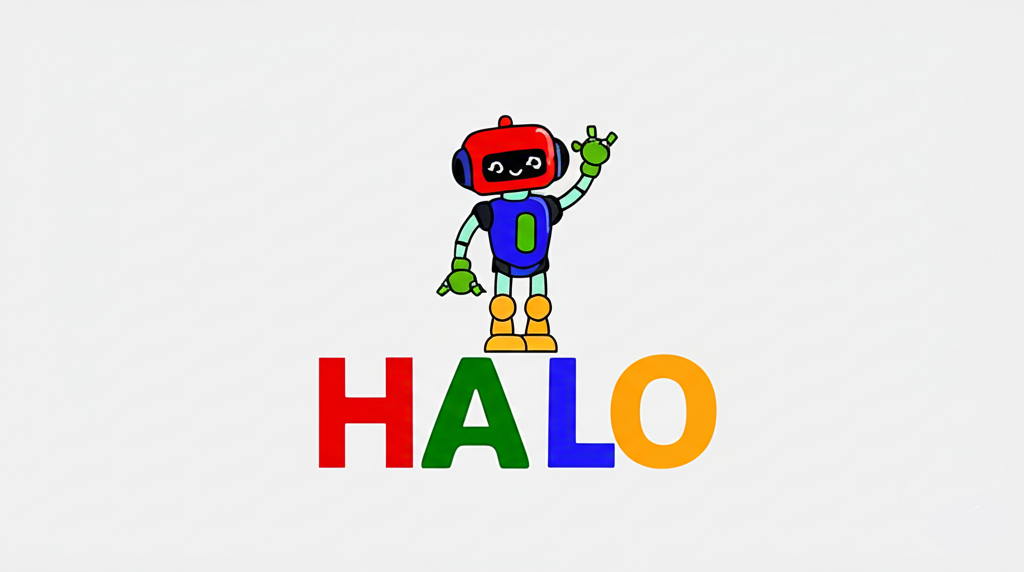
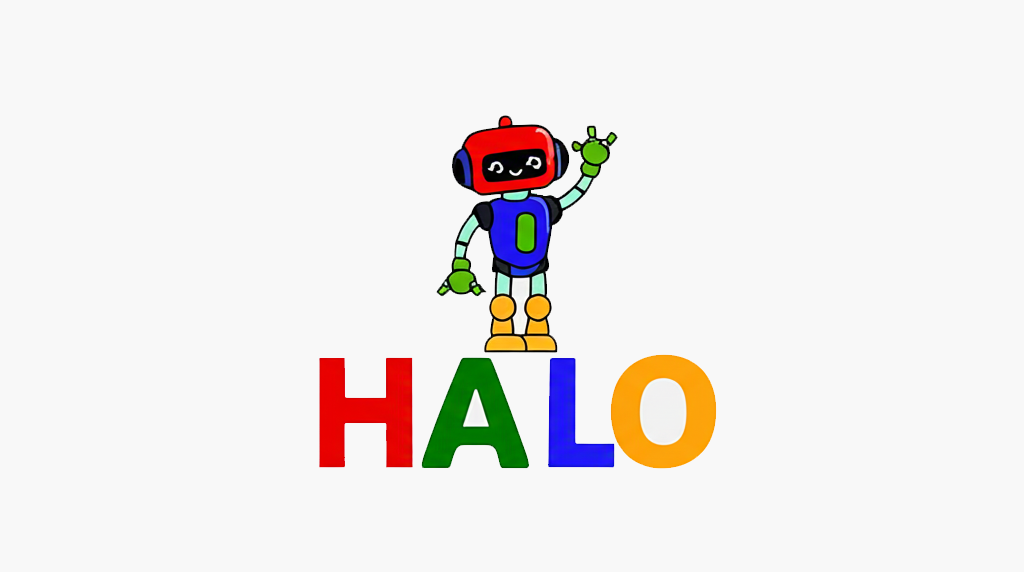
add background

diff --git a/index.html b/index.html
@@ -83,85 +83,74 @@
 </nav>
 
 
-<section class="hero">
-  <div class="hero-body">
-    <div class="container is-max-desktop">
-      <div class="columns is-centered">
-        <div class="column has-text-centered">
-          <h1 class="title is-1 publication-title">Long Horizon Latent Action Learning framework for general robot manipulation</h1>
-          <div class="is-size-5 publication-authors">
-            <span class="author-block">
-              <a href="https://keunhong.com">Author1</a><sup>1</sup>,</span>
-            <span class="author-block">
-              <a href="https://utkarshsinha.com">Author2</a><sup>2</sup>,</span>
-            <span class="author-block">
-              <a href="https://jonbarron.info">Author3</a><sup>2</sup>,
-            </span>
-          </div>
-
-          <div class="is-size-5 publication-authors">
-            <span class="author-block"><sup>1</sup>Institution1</span>
-            <span class="author-block"><sup>2</sup>Institution2</span>
-          </div>
-
+<div class="publication-header">
+  <section class="hero">
+    <div class="hero-body">
+      <div class="container is-max-desktop">
+        <div class="columns is-centered">
           <div class="column has-text-centered">
-            <div class="publication-links">
-              <!-- PDF Link. -->
-              <span class="link-block">
-                <a href="halo.pdf"
-                   class="external-link button is-normal is-rounded is-dark">
-                  <span class="icon">
-                      <i class="fas fa-file-pdf"></i>
-                  </span>
-                  <span>Paper</span>
-                </a>
-              </span>
-              <span class="link-block">
-                <a href="..."
-                   class="external-link button is-normal is-rounded is-dark">
-                  <span class="icon">
-                      <i class="ai ai-arxiv"></i>
-                  </span>
-                  <span>arXiv</span>
-                </a>
-              </span>
-              <!-- Video Link. -->
-              <!-- <span class="link-block">
-                <a href="https://www.youtube.com/watch?v=MrKrnHhk8IA"
-                   class="external-link button is-normal is-rounded is-dark">
-                  <span class="icon">
-                      <i class="fab fa-youtube"></i>
-                  </span>
-                  <span>Video</span>
-                </a>
-              </span> -->
-              <!-- Code Link. -->
-              <span class="link-block">
-                <a href="https://github.com/NsurrenderX/gcr_lerobot_2"
-                   class="external-link button is-normal is-rounded is-dark">
-                  <span class="icon">
-                      <i class="fab fa-github"></i>
-                  </span>
-                  <span>Code</span>
-                  </a>
-              </span>
-              <!-- Dataset Link. -->
-              <!-- <span class="link-block">
-                <a href="https://github.com/google/nerfies/releases/tag/0.1"
-                   class="external-link button is-normal is-rounded is-dark">
-                  <span class="icon">
-                      <i class="far fa-images"></i>
-                  </span>
-                  <span>Data</span>
-                  </a>
-            </div> -->
 
+            <!-- Main HALO logo image added here -->
+            <img src="static/images/halo_betterbak.png" alt="HALO Robot Logo" class="main-halo-logo">
+            
+            <!-- Title modified to include colored spans -->
+            <h1 class="title is-1 publication-title">
+              Long <span class="h-color">H</span>orizon Latent <span class="a-color">A</span>ction <span class="l-color">L</span>earning framework for general r<span class="o-color">o</span>bot manipulation
+            </h1>
+
+            <div class="is-size-5 publication-authors">
+              <span class="author-block">
+                <a href="https://keunhong.com">Author1</a><sup>1</sup>,</span>
+              <span class="author-block">
+                <a href="https://utkarshsinha.com">Author2</a><sup>2</sup>,</span>
+              <span class="author-block">
+                <a href="https://jonbarron.info">Author3</a><sup>2</sup>
+              </span>
+            </div>
+
+            <div class="is-size-5 publication-authors">
+              <span class="author-block"><sup>1</sup>Institution1</span>
+              <span class="author-block"><sup>2</sup>Institution2</span>
+            </div>
+
+            <div class="column has-text-centered">
+              <div class="publication-links">
+                <!-- PDF Link. -->
+                <span class="link-block">
+                  <a href="halo.pdf"
+                     class="external-link button is-normal is-rounded is-dark">
+                    <span class="icon">
+                        <i class="fas fa-file-pdf"></i>
+                    </span>
+                    <span>Paper</span>
+                  </a>
+                </span>
+                <span class="link-block">
+                  <a href="#"
+                     class="external-link button is-normal is-rounded is-dark">
+                    <span class="icon">
+                        <i class="ai ai-arxiv"></i>
+                    </span>
+                    <span>arXiv</span>
+                  </a>
+                </span>
+                <span class="link-block">
+                  <a href="https://github.com/NsurrenderX/gcr_lerobot_2"
+                     class="external-link button is-normal is-rounded is-dark">
+                    <span class="icon">
+                        <i class="fab fa-github"></i>
+                    </span>
+                    <span>Code</span>
+                    </a>
+                </span>
+              </div>
+            </div>
           </div>
         </div>
       </div>
     </div>
-  </div>
-</section>
+  </section>
+</div>
 
 <section class="hero teaser">
   <div class="container is-max-desktop">

diff --git a/static/css/index.css b/static/css/index.css
@@ -17,11 +17,31 @@ body {
   font-variant: small-caps;
 }
 
+    .publication-header {
+      background-color: #f5f5f5; /* Light gray background for the header */
+    }
 
-.teaser .hero-body {
-  padding-top: 0;
-  padding-bottom: 3rem;
-}
+    .teaser .hero-body {
+      padding-top: 0;
+      padding-bottom: 3rem;
+    }
+
+    .publication-header .hero-body {
+       padding-top: 3rem;
+       padding-bottom: 3rem;
+    }
+
+    .main-halo-logo {
+      max-width: 650px; /* Controls the size of the main logo */
+      margin: 0 auto 1rem auto; /* Centers the logo and adds space below it */
+    }
+    /* Keep your .publication-title styles, these just add the color */
+    .publication-title .h-color { color: #d9534f; }
+    .publication-title .a-color { color: #5cb85c; }
+    .publication-title .l-color { color: #4285f4; }
+    .publication-title .o-color { color: #f0ad4e; }
+    
+
 
 .teaser {
   font-family: 'Google Sans', sans-serif;
@@ -44,8 +64,6 @@ body {
   object-fit: fit;
 }
 
-.publication-header .hero-body {
-}
 
 .publication-title {
     font-family: 'Google Sans', sans-serif;
